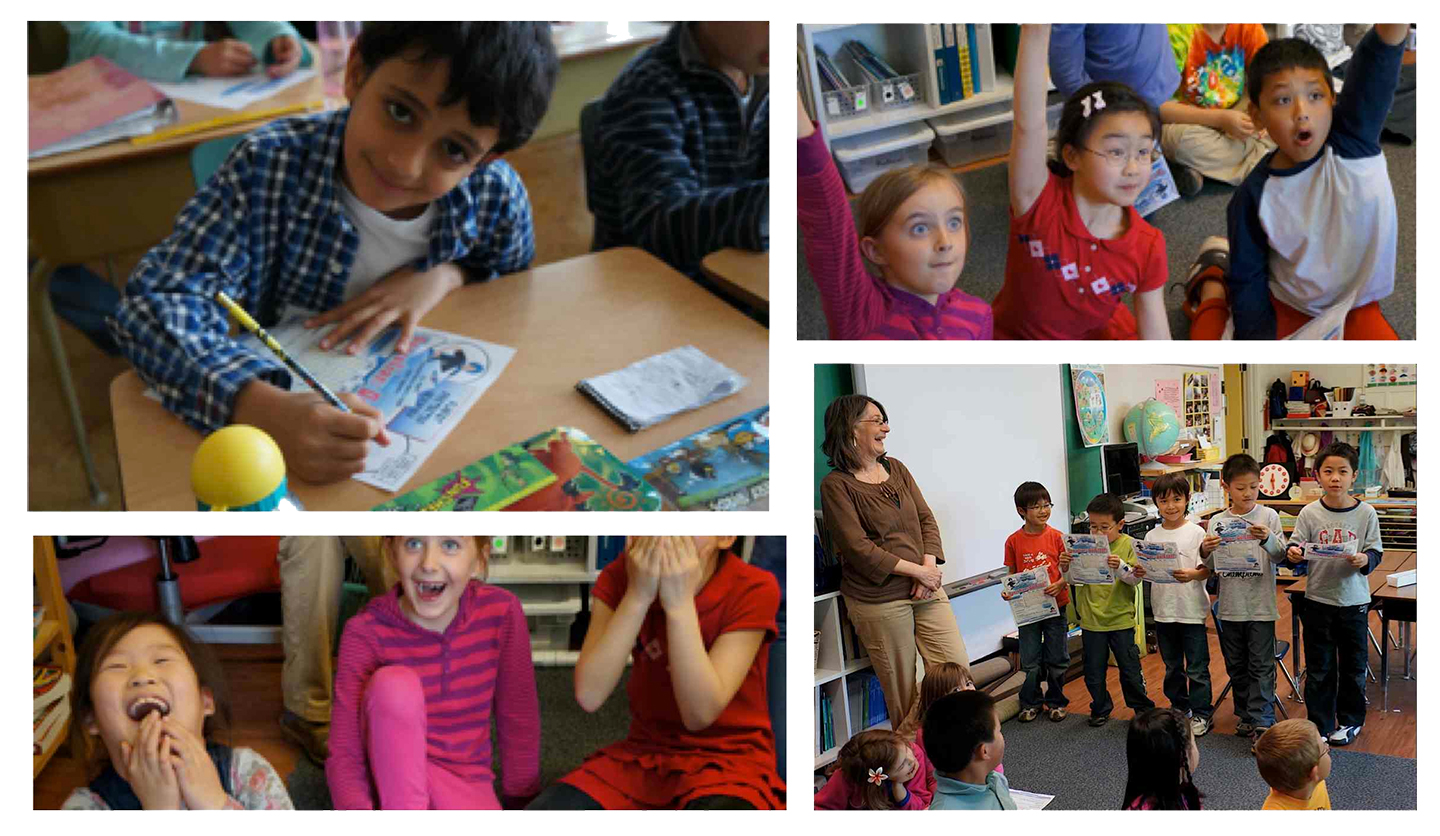
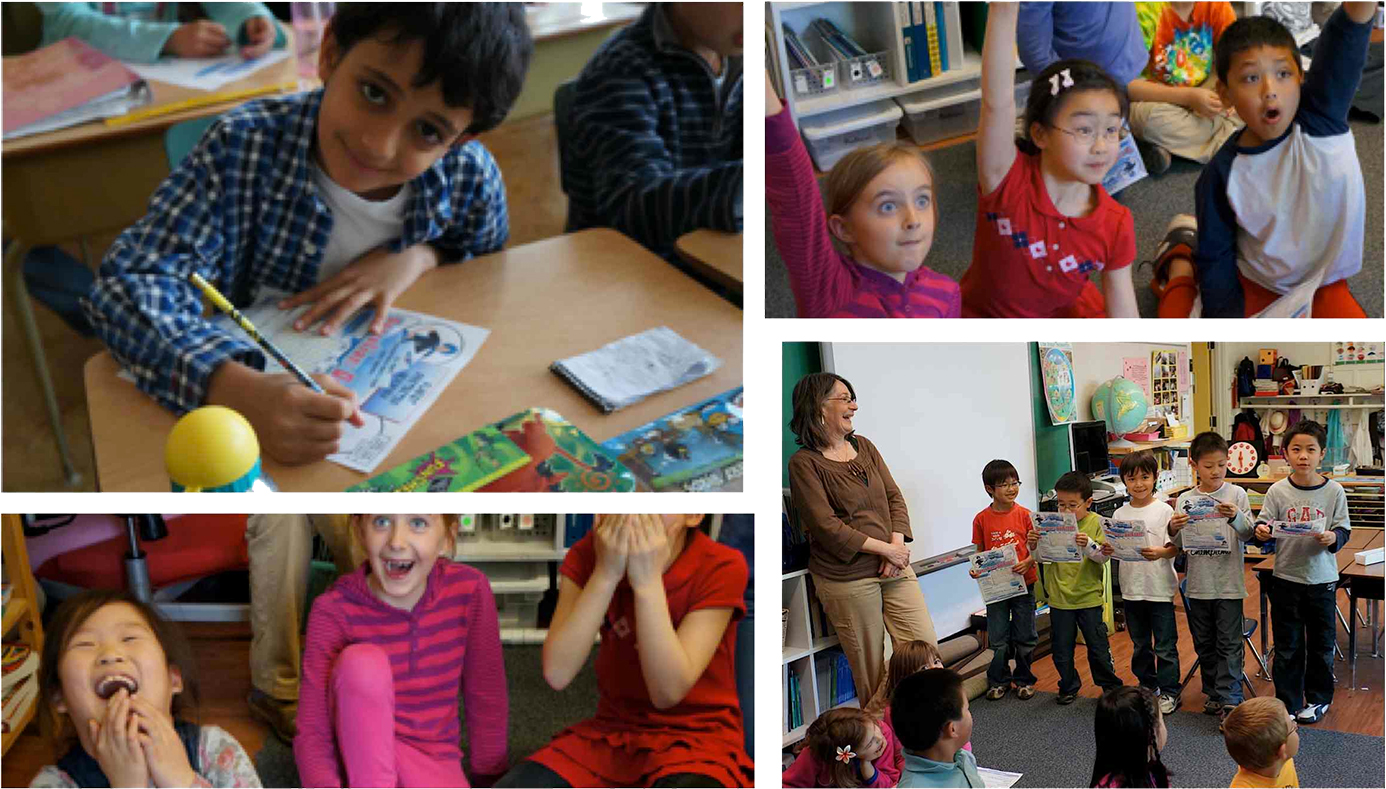
adjust positioning of dummy photos on about page

diff --git a/themes/dreamrider/sass/_media-queries.scss b/themes/dreamrider/sass/_media-queries.scss
@@ -144,9 +144,22 @@
       display: flex;
       justify-content: center;
       align-items: flex-start;
-      div {
-        width: 50vw;
-        height: auto;
+      margin:25px 0;
+
+      div:first-child,
+      div:last-child {
+        width: 58%;
+        height: 450px;
+        overflow:hidden;
+        border-right:10px solid #fff;
+        img {
+          max-width: none;
+          height: 100%;
+          width: auto;
+        } 
+      }
+      div:last-child{
+        width: 40%;
       }
     }
 

diff --git a/themes/dreamrider/sass/_page-templates.scss b/themes/dreamrider/sass/_page-templates.scss
@@ -313,10 +313,10 @@
   h3 {
     @include about-black-heading;
   }
+}
 
-  .about-pictures {
-    margin-bottom: 0;
-  }
+.about-pictures div {
+  line-height: 0px;
 }
 
 .about-today {
